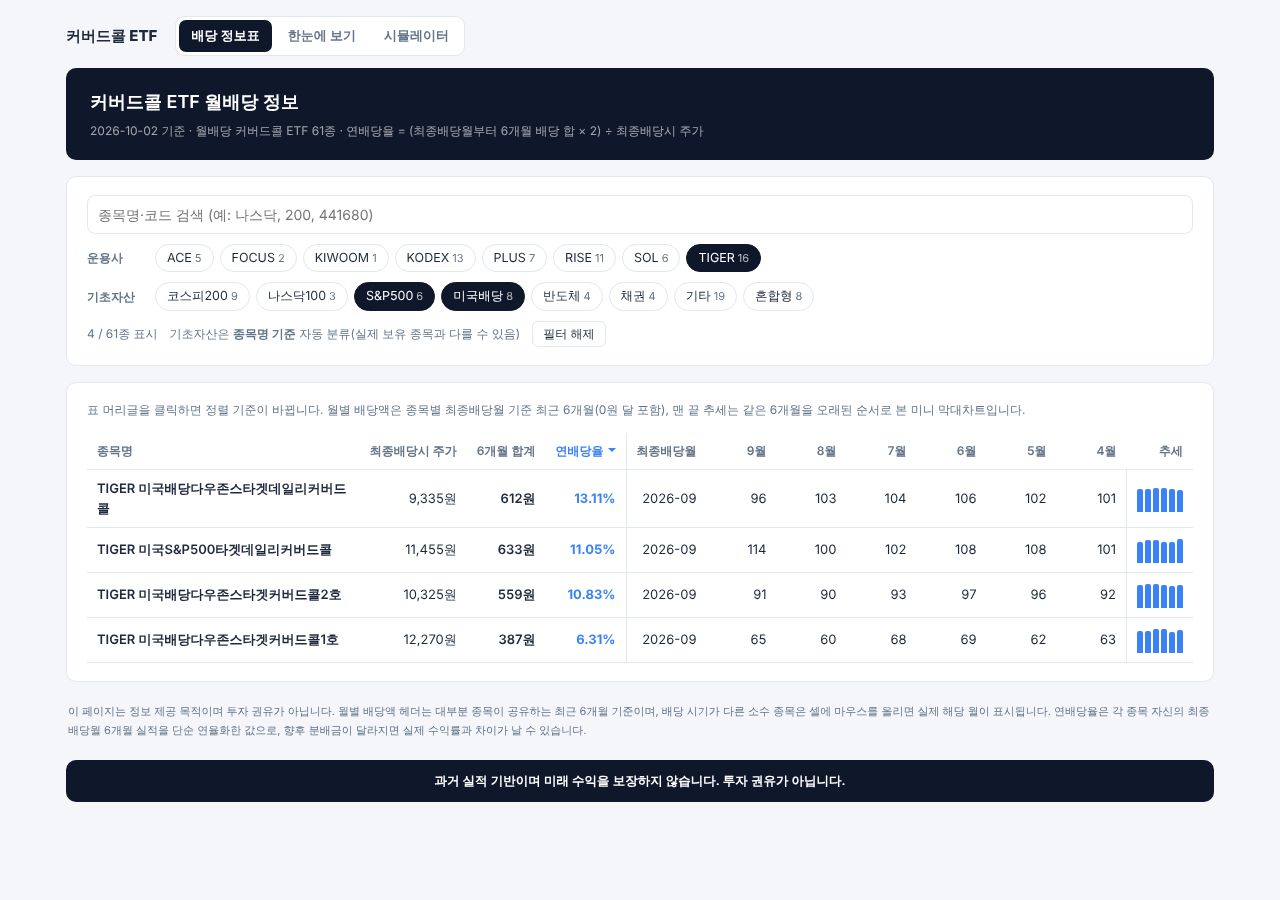
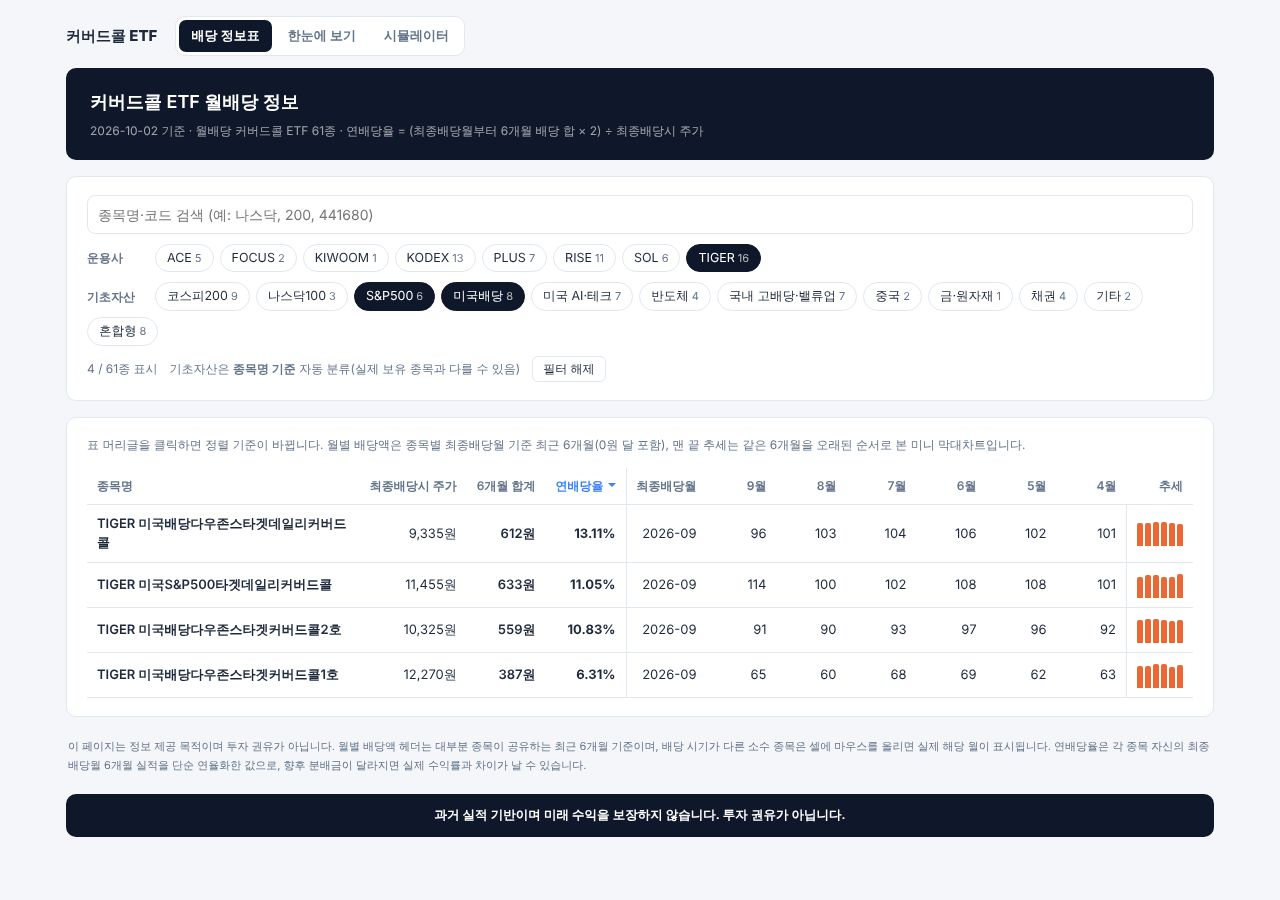
리뷰 반영: 기초자산 그룹 세분화, 한국식 부호 색(상승 빨강·하락 파랑)으로 통일
- 그룹: '기타' 19종 → 미국 AI·테크 7 / 국내 고배당·밸류업 7 / 중국 2 /
  금·원자재 1 로 나누고 기타는 2종(코스닥)만 남김. overview·index 칩 공통
- 부호 색: 세 페이지 모두 +·상승 = 빨강, −·하락 = 파랑 (site.css)
- 짝꿍 계열 색을 파랑 → 보라로 바꿔 '하락 파랑'과 헷갈리지 않게 함
  (커버드콜 주황·짝꿍 보라·예금 초록, 팔레트 검증 통과).
  배당 정보표의 연배당율 글자(파랑)·추세 막대(파랑)도 부호로 오해되지 않게 변경
- 산점도 그룹 색에서 빨강·파랑 계열 제외, 스크린샷 갱신

Claude-Session: https://claude.ai/code/session_01MwpYGzDfqMGGDJdmpQGeUS

diff --git a/overview.html b/overview.html
@@ -8,12 +8,14 @@
 <link rel="stylesheet" href="site.css">
 <style>
 :root{
-  /* 기초자산 그룹 색 (커버드콜 주황·짝꿍 파랑과 겹치지 않는 색으로) */
-  --g-kospi:#4a3aa7; --g-ndx:#1baf7a; --g-spx:#e87ba4; --g-div:#eda100; --g-semi:#008300; --g-bond:#e34948; --g-etc:#8a8f98;
+  /* 기초자산 그룹 색: 커버드콜 주황·짝꿍 보라, 부호용 빨강·파랑과 겹치지 않게 */
+  --g-kospi:#be185d; --g-ndx:#1baf7a; --g-spx:#0891b2; --g-div:#eda100; --g-tech:#a23ba8; --g-semi:#008300;
+  --g-krdiv:#7a8b1f; --g-cn:#5b7c99; --g-gold:#8a6d0b; --g-bond:#8c564b; --g-etc:#8a8f98;
 }
 @media (prefers-color-scheme: dark){
   :root:not([data-theme="light"]){
-    --g-kospi:#9085e9; --g-ndx:#199e70; --g-spx:#d55181; --g-div:#c98500; --g-semi:#2f9e2f; --g-bond:#e66767; --g-etc:#8b93a1;
+    --g-kospi:#ec4899; --g-ndx:#199e70; --g-spx:#22b8d4; --g-div:#c98500; --g-tech:#c77dcc; --g-semi:#2f9e2f;
+    --g-krdiv:#a3b53a; --g-cn:#8fb0cc; --g-gold:#c9a227; --g-bond:#b07a6e; --g-etc:#8b93a1;
   }
 }
 .hdr ol{margin:10px 0 0 18px;font-size:13px;color:rgba(255,255,255,.82);line-height:1.7;}
@@ -186,8 +188,9 @@ const TERMS = {
   '짝꿍':   '<b>짝꿍</b>: 커버드콜과 같은(또는 가장 비슷한) 기초자산을 그대로 따라가는 일반 ETF. 예: TIGER 미국나스닥100커버드콜 ↔ TIGER 미국나스닥100.',
   '등급':   '<b>등급</b>: A = 같은 기초자산 짝꿍, B = 근사 비교(지수 구성이 다름), C = 주식+채권 혼합형이라 공정한 짝꿍 없음(비교 제외).',
 };
-const GROUP_VAR = {'코스피200':'--g-kospi','나스닥100':'--g-ndx','S&P500':'--g-spx','미국배당':'--g-div','반도체':'--g-semi','채권':'--g-bond','기타':'--g-etc'};
-const CARD_GROUPS = ['코스피200','나스닥100','S&P500','미국배당','반도체','채권','기타'];
+const GROUP_VAR = {'코스피200':'--g-kospi','나스닥100':'--g-ndx','S&P500':'--g-spx','미국배당':'--g-div','미국 AI·테크':'--g-tech','반도체':'--g-semi',
+  '국내 고배당·밸류업':'--g-krdiv','중국':'--g-cn','금·원자재':'--g-gold','채권':'--g-bond','기타':'--g-etc'};
+const CARD_GROUPS = CC.GROUPS.filter(g => g !== '혼합형');
 let H, D, ROWS = [], chart = null, hidden = new Set(), lastTap = null;
 let sortKey = 'diff', sortDir = 'desc';
 

diff --git a/site.css b/site.css
@@ -4,10 +4,11 @@
   --bg:#f4f6f9; --card:#fff; --header:#0f172a; --text:#1e293b; --muted:#64748b;
   --border:#e2e8f0; --soft:#f1f5f9; --accent:#2563eb;
   --blue:#3b82f6; --blue-soft:#dbeafe;
-  /* 계열 색: 커버드콜 / 짝꿍(일반 ETF) / 예금 — 모든 페이지 고정 */
-  --cc:#eb6834; --pair:#2a78d6; --dep:#1baf7a;
-  /* 수익 부호: + 초록 / − 빨강 (세 페이지 공통 규칙) */
-  --pos:#16a34a; --neg:#dc2626;
+  /* 계열 색: 커버드콜(주황) / 짝꿍 일반 ETF(보라) / 예금(초록) — 모든 페이지 고정.
+     빨강·파랑은 부호 전용이라 계열 색으로 쓰지 않는다. */
+  --cc:#eb6834; --pair:#7c3aed; --dep:#1baf7a;
+  /* 수익 부호(한국식): 상승·플러스 = 빨강 / 하락·마이너스 = 파랑 (세 페이지 공통) */
+  --pos:#dc2626; --neg:#1d4ed8;
   --grid:rgba(100,116,139,.18);
   --warn-bg:#fff7ed; --warn-bd:#fdba74; --warn-tx:#9a3412;
   --gap:16px; --r:10px;
@@ -18,8 +19,8 @@
     --bg:#0b1120; --card:#151c2c; --header:#020617; --text:#e2e8f0; --muted:#94a3b8;
     --border:#273248; --soft:#1c2539; --accent:#60a5fa;
     --blue:#60a5fa; --blue-soft:#1e3a5f;
-    --cc:#d95926; --pair:#3987e5; --dep:#199e70;
-    --pos:#4ade80; --neg:#f87171;
+    --cc:#d95926; --pair:#9085e9; --dep:#199e70;
+    --pos:#f87171; --neg:#60a5fa;
     --grid:rgba(148,163,184,.16);
     --warn-bg:#2a1a0e; --warn-bd:#9a3412; --warn-tx:#fdba74;
   }

diff --git a/cc-core.js b/cc-core.js
@@ -129,7 +129,7 @@ function regimes(cc, pr){
 
 /* ---------- 분류 (종목명 기준) ---------- */
 // 기초자산 그룹: 종목명 키워드로 분류. 위에서부터 먼저 맞는 규칙 적용.
-const GROUPS = ['코스피200','나스닥100','S&P500','미국배당','반도체','채권','기타','혼합형'];
+const GROUPS = ['코스피200','나스닥100','S&P500','미국배당','미국 AI·테크','반도체','국내 고배당·밸류업','중국','금·원자재','채권','기타','혼합형'];
 function groupOf(name){
   const n = name.replace(/\s+/g,'');
   if(/혼합|밸런스/.test(n)) return '혼합형';
@@ -139,6 +139,10 @@ function groupOf(name){
   if(/S&P500|미국500/.test(n)) return 'S&P500';
   if(/미국배당/.test(n)) return '미국배당';
   if(/^(KODEX|TIGER|PLUS|RISE|SOL|ACE|KIWOOM|FOCUS)200/.test(n)) return '코스피200';
+  if(/미국.*(AI|테크|빅테크|성장)/.test(n)) return '미국 AI·테크';
+  if(/차이나|항셍|중국/.test(n)) return '중국';
+  if(/국제금|골드|금현물|금선물|원유|원자재|은선물/.test(n)) return '금·원자재';   // '금융'과 구분
+  if(/고배당|배당|밸류업/.test(n)) return '국내 고배당·밸류업';                 // 미국배당은 위에서 이미 분류
   return '기타';
 }
 // 운용사(브랜드) = 종목명 첫 단어

diff --git a/index.html b/index.html
@@ -24,13 +24,13 @@ th.active{color:var(--blue);}
 th.active::after{content:'';display:inline-block;width:0;height:0;margin-left:4px;border:4px solid transparent;vertical-align:middle;}
 th.active.desc::after{border-top-color:var(--blue);}
 th.active.asc::after{border-bottom-color:var(--blue);}
-.yield{font-weight:700;color:var(--blue);}
+.yield{font-weight:700;color:var(--text);}
 .sum-cell{font-weight:600;}
 .mo-zero{color:var(--muted);}
 .month-td{min-width:70px;}
 th.grp,td.grp-start{border-left:1px solid var(--border);}
 .spark{display:inline-flex;align-items:flex-end;gap:2px;height:26px;vertical-align:middle;}
-.spark i{display:inline-block;width:6px;background:var(--blue);border-radius:2px 2px 0 0;min-height:2px;}
+.spark i{display:inline-block;width:6px;background:var(--cc);border-radius:2px 2px 0 0;min-height:2px;}
 .spark i.zero{background:var(--border);}
 .filters{display:flex;flex-direction:column;gap:10px;}
 .filters .row{display:flex;flex-wrap:wrap;align-items:center;gap:6px;}
